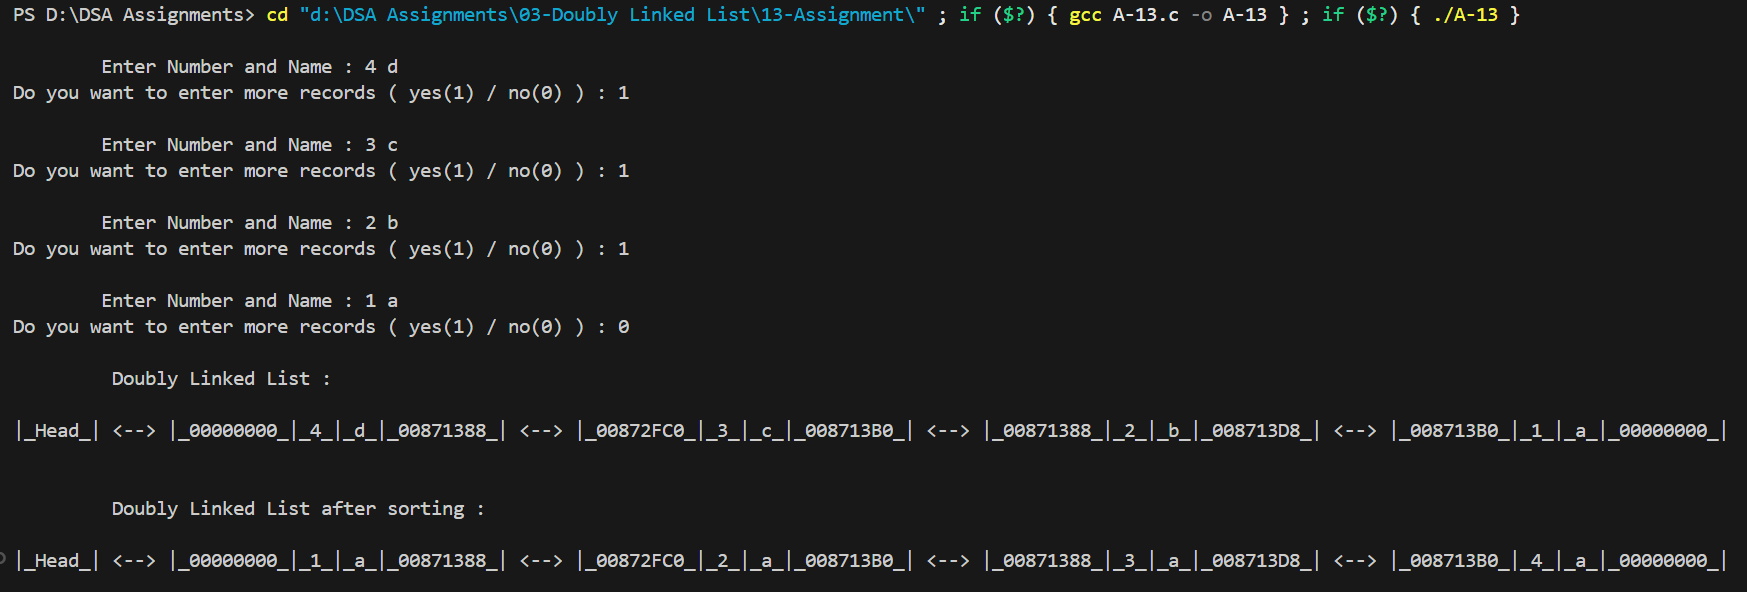
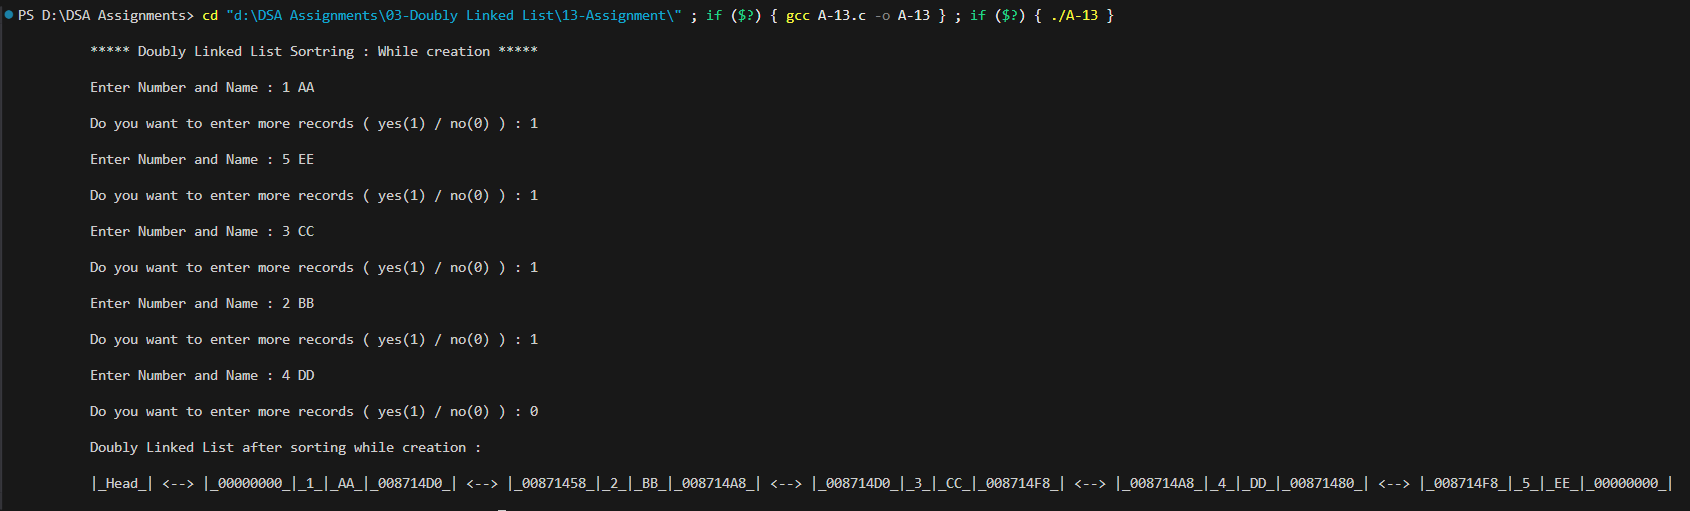
Doubly Linked List Assignment No. 13

diff --git a/03-Doubly Linked List/13-Assignment/A-13.c b/03-Doubly Linked List/13-Assignment/A-13.c
@@ -27,16 +27,15 @@ int main() {
     
     DLLNode *head = NULL;
 
+    printf("\n\t ***** Doubly Linked List Sortring : While creation ***** \n");
+
     head = createDLL();
 
-    printf("\n\t Doubly Linked List : ");
-    displayDLL(head);
-    
-    head = sortDLL(head);
-    printf("\n\t Doubly Linked List after sorting : ");
+    printf("\n\t Doubly Linked List after sorting while creation : ");
     displayDLL(head);
     
     freeDLL(head);
+    head = NULL;
 
     return 0;
     
@@ -51,25 +50,51 @@ DLLNode* createDLL() {
 
     do
     {
-        nw = malloc(sizeof(DLLNode));
+        nw = (DLLNode*)malloc(sizeof(DLLNode));
+        if (nw == NULL)
+        {
+            printf("\n\t Memory Allocation Failed! \n\n");
+            exit(1);
+        }
 
-        printf("\n\tEnter Number and Name : ");
+        printf("\n\t Enter Number and Name : ");
         scanf("%d %s", &(nw -> number), nw -> name);
 
         nw -> next = NULL;
+        nw -> prev = NULL;
 
         if (head == NULL) {
             head = nw;
-            nw -> prev = NULL;
+            last = nw;
         }
         else {
-            last -> next = nw;
-            nw -> prev = last;
+            int flag = 0;
+            for (DLLNode *p = head ; p != NULL ; p = p -> next) {
+                if (p -> number > nw -> number) {
+                    flag = 1;
+                    if (p == head) {
+                        p -> prev = nw;
+                        nw -> next = p;
+                        last = p;
+                        head = nw;
+                    } else {
+                        p -> prev -> next = nw;
+                        nw -> prev = p -> prev;
+                        nw -> next = p;
+                        p -> prev = nw;
+                    }
+                    break;
+                }
+            }
+            
+            if (flag == 0) {
+                last -> next = nw;
+                nw -> prev = last;
+                last = nw;
+            }
         }
-        
-        last = nw;
 
-        printf("Do you want to enter more records ( yes(1) / no(0) ) : ");
+        printf("\n\t Do you want to enter more records ( yes(1) / no(0) ) : ");
         scanf("%d", &cnt);
     } while (cnt != 0);
 
@@ -77,31 +102,9 @@ DLLNode* createDLL() {
 
 }
 
-DLLNode* sortDLL(DLLNode *head) {
-
-    DLLNode *p1 = NULL, *p2 = NULL;
-    DLLNode t;
-    for (p1 = head ; p1 != NULL ; p1 = p1 -> next) {
-        for (p2 = p1 -> next ; p2 != NULL ; p2 = p2 -> next) {
-            if (p1 -> number > p2 -> number) {
-                t.number = p1 -> number;
-                p1 -> number = p2 -> number;
-                p2 -> number = t.number;
-
-                strcpy(t.name,p1 -> name);
-                strcpy(p1 -> name,p2 -> name);
-                strcpy(p2 -> name,p1 -> name);
-            }
-        }
-    }
-
-    return head;
-
-}
-
 void displayDLL(DLLNode *d) {
 
-    printf("\n\n|_Head_| ");
+    printf("\n\n\t |_Head_| ");
     for ( ; d != NULL ; d = d -> next )
         printf("<--> |_%p_|_%d_|_%s_|_%p_| ", d -> prev, d -> number, d -> name, d -> next);
 
@@ -110,11 +113,13 @@ void displayDLL(DLLNode *d) {
 }
 
 void freeDLL(DLLNode *f) {
+    DLLNode *t = NULL;
 
-    for( ; f != NULL ; f = f -> next)
-        free(f);
-
-    f = NULL;
+    while (f != NULL) {
+        t = f;
+        f = f -> next;
+        free(t);
+    }
 }
 
 /*
